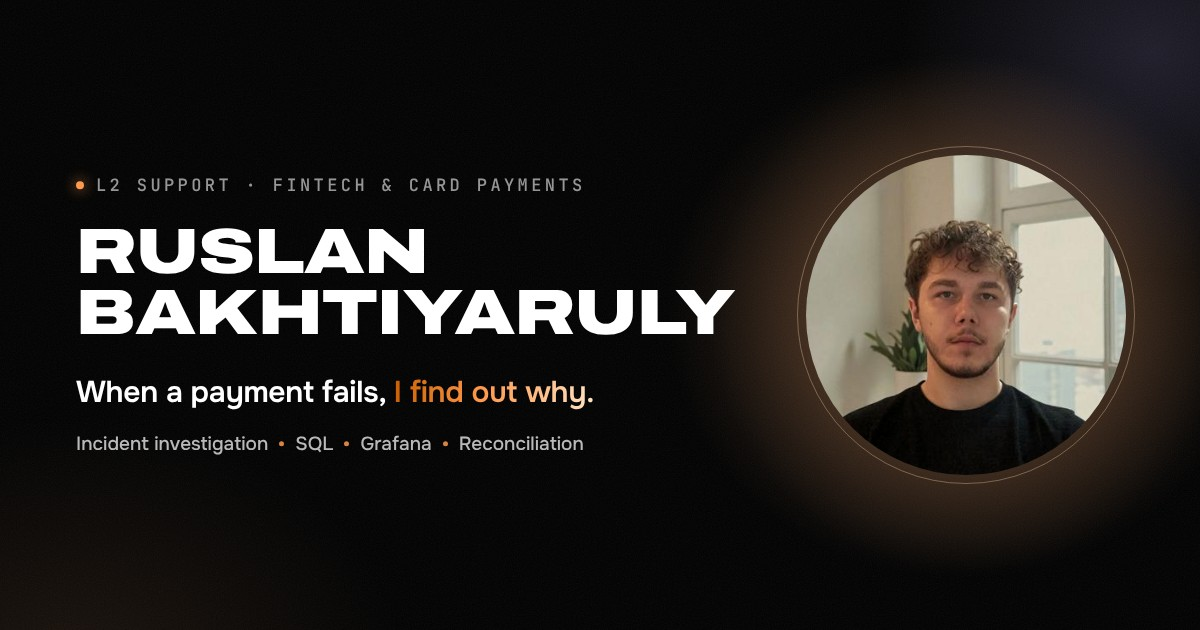
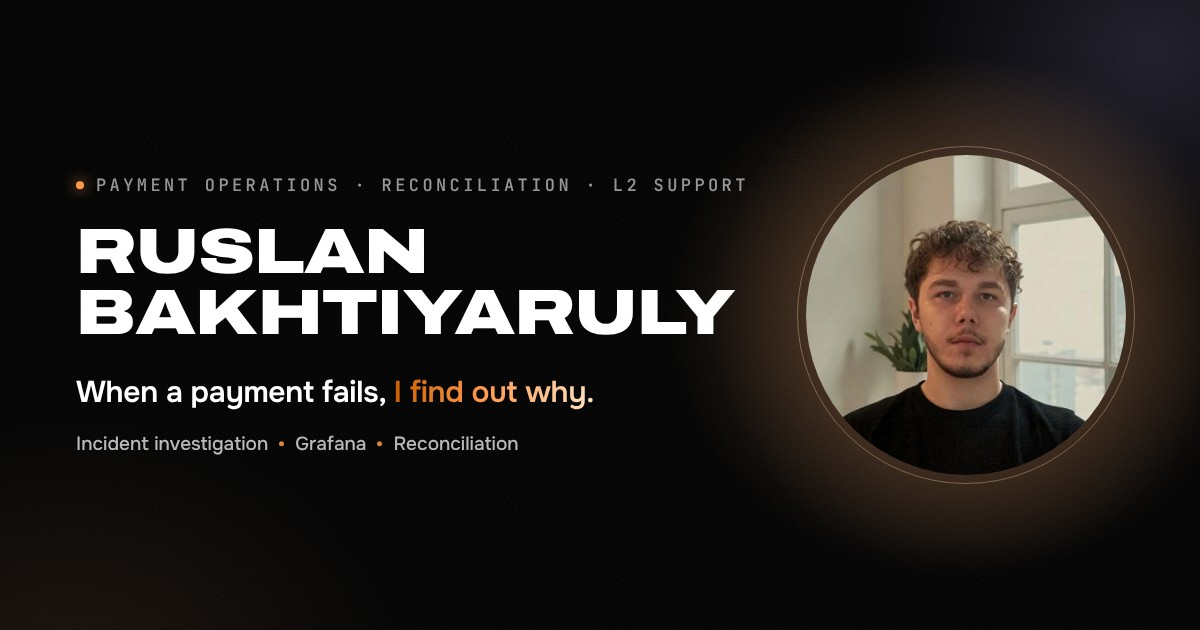
Update positioning: name companies, reframe VIP role, email-first, remove SQL, refresh OG

Changed region(s): [[0.0925, 0.2714, 0.4933, 0.3016], [0.2467, 0.6937, 0.4933, 0.7238], [0.5242, 0.2714, 0.6167, 0.3016]]

diff --git a/index.html b/index.html
@@ -484,9 +484,9 @@ a.ca{text-decoration:none}
         <p class="role"><span>Payment Operations</span><i aria-hidden="true"></i><span>Reconciliation</span><i class="br" aria-hidden="true"></i><span>L2 Support</span></p>
         <div class="cue" aria-hidden="true"><span>Scroll down</span><i></i></div>
         <ul class="pcontacts">
-          <li><span>Telegram</span><a href="https://t.me/Ilasdz">@Ilasdz</a></li>
-          <li><span>LinkedIn</span><a href="https://www.linkedin.com/in/ruslan-bakhtiyaruly/">in/ruslan-bakhtiyaruly</a></li>
           <li><span>Email</span><a href="mailto:bakhtiyarulyruslan@gmail.com">bakhtiyarulyruslan@gmail.com</a></li>
+          <li><span>LinkedIn</span><a href="https://www.linkedin.com/in/ruslan-bakhtiyaruly/">in/ruslan-bakhtiyaruly</a></li>
+          <li><span>Telegram</span><a href="https://t.me/Ilasdz">@Ilasdz</a></li>
           <li><span>Phone / WhatsApp</span><a href="https://wa.me/77066578399">+7 706 657 8399</a></li>
         </ul>
       </div>
@@ -521,7 +521,7 @@ a.ca{text-decoration:none}
             <div><dt>card providers reconciled</dt><dd><span data-count="13">13</span></dd></div>
           </dl>
           <ul class="job-list">
-            <li>Conduct end-to-end investigations of card transaction incidents, from the client's first message to the root cause. Analyze declines, cancellations, KYC failures and card issuance errors using Back Office data, Grafana logs and provider responses.</li>
+            <li>Conduct end-to-end investigations of card transaction incidents, from the client's first message to the root cause. Analyze declines, cancellations, KYC failures and card issuance errors using Backoffice data, Grafana logs and provider responses.</li>
             <li>Reconcile transactions with 13 card providers and prepare monthly reporting for the finance team across 280+ client companies.</li>
             <li>Identify the causes of balance and fee discrepancies: recalculate operations by status, authorization and fee, and prepare clear statements and explanations for clients.</li>
             <li>Own the connection of new BINs and the launch of new clients: provider, tariff, access rights and account setup, plus onboarding on card operations and the client portal.</li>
@@ -535,7 +535,7 @@ a.ca{text-decoration:none}
         <div class="job-head">
           <div class="job-top"><span>May 2023 – Dec 2025</span><span>2 yrs 8 mos</span></div>
           <h3 class="job-title dsp">VIP Manager</h3>
-          <p class="job-co">Confidential Company (NDA)</p>
+          <p class="job-co">PIN-UP GLOBAL</p>
         </div>
         <div class="job-body">
           <dl class="metrics">
@@ -543,11 +543,10 @@ a.ca{text-decoration:none}
             <div><dt>dormant VIP accounts reactivated</dt><dd><span data-count="120" data-prefix="~">~120</span></dd></div>
           </dl>
           <ul class="job-list">
-            <li>Managed a portfolio of around 100 VIP players, responsible for retention and activity growth.</li>
-            <li>Reactivated around 120 dormant VIP accounts over the course of the role through personalised outreach.</li>
-            <li>Analysed GGR, player behaviour and regional preferences to build tailored bonus offers.</li>
-            <li>Contributed to the development and launch of promotions for my player pool.</li>
-            <li>Resolved payment incidents related to deposits and withdrawals, and coordinated complex cases with the KYC, Antifraud and L2 teams.</li>
+            <li>Resolved payment incidents on deposits and withdrawals end to end, coordinating complex cases with the KYC, Antifraud and L2 teams.</li>
+            <li>Worked daily with the KYC and Antifraud teams on verification and suspicious-activity reviews for high-value accounts.</li>
+            <li>Managed a portfolio of around 100 VIP players and reactivated around 120 dormant accounts through personalized outreach.</li>
+            <li>Analyzed GGR, player behavior and regional preferences to build tailored offers.</li>
           </ul>
         </div>
       </article>
@@ -619,9 +618,9 @@ a.ca{text-decoration:none}
           <h2 class="h-xl dsp"><span class="ln"><span>Let's talk</span></span></h2>
         </header>
         <div class="cgrid" data-scroll>
-          <div class="crow mag" style="--j:0"><span class="ck">Telegram</span><span class="cv">@Ilasdz</span><a class="ca" href="https://t.me/Ilasdz" target="_blank" rel="noopener" aria-label="Open Telegram">Open<svg viewBox="0 0 24 24" fill="none" stroke="currentColor" stroke-width="2.2" stroke-linecap="round" stroke-linejoin="round" aria-hidden="true"><path d="M7 17 17 7"/><path d="M8 7h9v9"/></svg></a></div>
+          <div class="crow mag" style="--j:0"><span class="ck">Email</span><span class="cv">bakhtiyarulyruslan<wbr>@gmail.com</span><a class="ca" href="https://mail.google.com/mail/?view=cm&amp;fs=1&amp;to=bakhtiyarulyruslan@gmail.com" target="_blank" rel="noopener" aria-label="Write an email in Gmail">Open<svg viewBox="0 0 24 24" fill="none" stroke="currentColor" stroke-width="2.2" stroke-linecap="round" stroke-linejoin="round" aria-hidden="true"><path d="M7 17 17 7"/><path d="M8 7h9v9"/></svg></a></div>
           <div class="crow mag" style="--j:1"><span class="ck">LinkedIn</span><span class="cv">in/ruslan-bakhtiyaruly</span><a class="ca" href="https://www.linkedin.com/in/ruslan-bakhtiyaruly/" target="_blank" rel="noopener" aria-label="Open LinkedIn profile">Open<svg viewBox="0 0 24 24" fill="none" stroke="currentColor" stroke-width="2.2" stroke-linecap="round" stroke-linejoin="round" aria-hidden="true"><path d="M7 17 17 7"/><path d="M8 7h9v9"/></svg></a></div>
-          <div class="crow mag" style="--j:2"><span class="ck">Email</span><span class="cv">bakhtiyarulyruslan<wbr>@gmail.com</span><a class="ca" href="https://mail.google.com/mail/?view=cm&amp;fs=1&amp;to=bakhtiyarulyruslan@gmail.com" target="_blank" rel="noopener" aria-label="Write an email in Gmail">Open<svg viewBox="0 0 24 24" fill="none" stroke="currentColor" stroke-width="2.2" stroke-linecap="round" stroke-linejoin="round" aria-hidden="true"><path d="M7 17 17 7"/><path d="M8 7h9v9"/></svg></a></div>
+          <div class="crow mag" style="--j:2"><span class="ck">Telegram</span><span class="cv">@Ilasdz</span><a class="ca" href="https://t.me/Ilasdz" target="_blank" rel="noopener" aria-label="Open Telegram">Open<svg viewBox="0 0 24 24" fill="none" stroke="currentColor" stroke-width="2.2" stroke-linecap="round" stroke-linejoin="round" aria-hidden="true"><path d="M7 17 17 7"/><path d="M8 7h9v9"/></svg></a></div>
           <div class="crow mag" style="--j:3"><span class="ck">Phone / WhatsApp</span><span class="cv">+7 706 657 8399</span><a class="ca" href="https://wa.me/77066578399" target="_blank" rel="noopener" aria-label="Open a WhatsApp chat">Open<svg viewBox="0 0 24 24" fill="none" stroke="currentColor" stroke-width="2.2" stroke-linecap="round" stroke-linejoin="round" aria-hidden="true"><path d="M7 17 17 7"/><path d="M8 7h9v9"/></svg></a></div>
         </div>
       </div>
